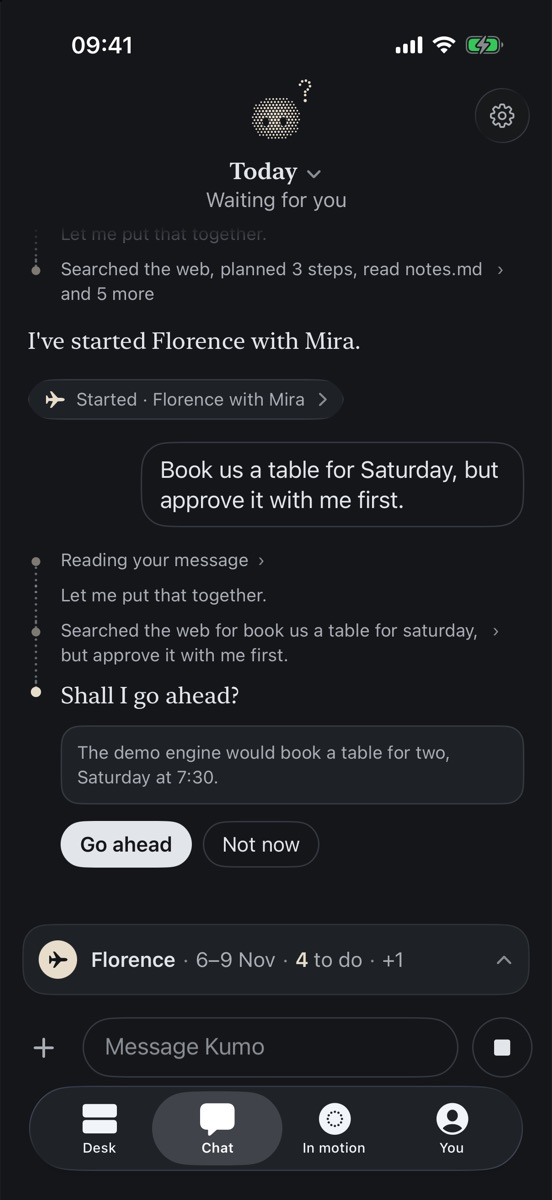
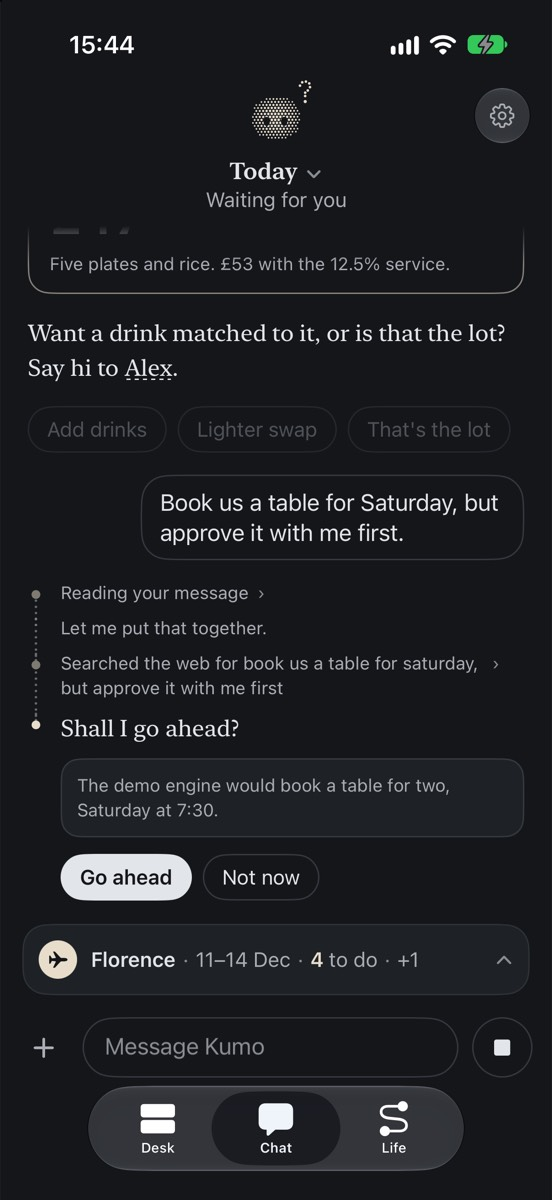
docs: README for 0.21 with fresh screenshots (#212)
## Why

The README still showed In motion and the Library, which the app no
longer has, listed an
on-device cache as not built, and left out most of what the server
learnt in 0.20 and 0.21.

## What changes

- New screenshots of the built 0.21 app on fictional data: the Desk with
the dream's moon, the chat
with side threads, last night's dream page and Life's Going on at the
top; What I know about you
beside Memory; Kumo dreaming beside a new section on the dream. The old
`in-motion`, `library`
  and `your-day` images are gone.
- The intro and "What works today": Ito as a companion for your whole
life, with bullets for
sharing, places, people linked to Contacts, Life, Understanding you,
Today so far, the dream, the
  browser and Full access. In motion is folded into Life's Going on.
- Two short engineering sections: the dream and Today so far, and how
places, trips and the heat
are worked out on the box (linking to `docs/running.md#places` for the
details).
- The five-minute demo: the trip shows in Going on, *menu* and *guide*
are listed, and it says the
  demo engine doesn't dream and has no places or people.
- The table of folders gains `src/dream`, `src/day`, `src/location`,
`src/life`, `src/motion`,
`src/hands` and `src/access`; the diagram's background box names places
and the dream; the
  privacy notes say where you've been stays on your machine.

## Calls I made

- No map screenshots: MapKit draws no tiles in this Simulator, so Days,
Places and a place's page
[…]

diff --git a/README.md b/README.md
@@ -1,34 +1,37 @@
 # <img src="https://raw.githubusercontent.com/akai-ito/.github/main/profile/mark.svg" width="34" alt=""> Ito
 
-**A personal agent you run on your own machine, with a native iPhone app.**
+**A companion for your whole life that you run on your own machine, with a native iPhone app.**
 
 [![CI](https://github.com/akai-ito/ito-core/actions/workflows/ci.yml/badge.svg)](https://github.com/akai-ito/ito-core/actions/workflows/ci.yml)
 
-Life admin is scattered across mail, calendars and your own head, and it needs following up
+Life is scattered across mail, calendars, places and your own head, and it needs following up
 long after any one conversation ends. Ito is an agent that lives with it. Kumo, the agent, reads
 your mail as it arrives, keeps your calendar and plans, remembers what you tell it in a git
-repository you own, and comes back to things on its own when they need you. You talk to it in one
-continuous conversation in the iPhone app, which also has a Desk for what's waiting on you. Kumo
-drafts, files and schedules, and records each action with an undo. It never sends mail, and the
-bigger steps wait for your go-ahead.
+repository you own, and comes back to things on its own when they need you. Each night it dreams
+over the day: it tidies its memory, plans tomorrow and writes your journal. If you let it, it
+learns your places from your phone's trail and links the people in your life to your contacts.
+You talk to it in one continuous conversation in the iPhone app, which also has a Desk for what's
+waiting on you and Life, for your days, places, people and what's going on. Kumo drafts, files and
+schedules, and records each action with an undo. It never sends mail, and the bigger steps wait
+for your go-ahead.
 
 This repository, **ito-core**, is the server: the agent loop, a durable event log, the client API,
-memory, mail and calendar, capabilities and the voice sidecar. The iPhone app is
-[ari-ios](https://github.com/akai-ito/ari-ios); Ari is its name in the code.
+memory and the dream, mail and calendar, places and people, capabilities and the voice sidecar. The
+iPhone app is [ari-ios](https://github.com/akai-ito/ari-ios); Ari is its name in the code.
 
 <p align="center">
-  <img width="200" alt="The Desk: Kumo, one thing waiting, and today as a dotted line"
+  <img width="200" alt="The Desk at 07:40: Kumo, the moon from last night's dream, and 2 for you"
     src="docs/images/desk.jpg">
-  <img width="200" alt="The chat: Kumo's trail, then a reply that opens a trip"
+  <img width="200" alt="The chat: a reply with Kumo's trail, two side threads and a table"
     src="docs/images/chat.jpg">
-  <img width="200" alt="A trip in motion: its to-dos and its days"
-    src="docs/images/in-motion.jpg">
-  <img width="200" alt="The Library: shelves of memory pages"
-    src="docs/images/library.jpg">
+  <img width="200" alt="The moon's page: last night's dream, replayed as a weave, line by line"
+    src="docs/images/last-night.jpg">
+  <img width="200" alt="Life, Going on: matters, projects and goals as threads beside time"
+    src="docs/images/going-on.jpg">
 </p>
-<p align="center"><sub>The Desk, a reply with Kumo's trail, a trip in motion, and the memory
-Library. Every name and detail is fictional: the server's demo engine and a few made-up memory
-pages.</sub></p>
+<p align="center"><sub>The Desk, a reply with Kumo's trail and side threads, the record of last
+night's dream, and Life's Going on. Every name and detail is fictional: the app's own samples and
+the server's demo engine.</sub></p>
 
 > [!NOTE]
 > Ito is a personal project, in use by its author on his own home server. It's single-user by
@@ -43,36 +46,58 @@ pages.</sub></p>
   that runs beside the main chat. Where an answer has shape, it shows: tables with verdicts, picks
   with pictures, cards to act on, and pages Kumo made and keeps current. Photos, files and long
   recordings go in with a message; recordings are transcribed on the server.
+- **Sharing.** What you send from the phone's share sheet (a link, text, photos or files, with your
+  thought) is on disk at once. The server reads the link's page, and Kumo puts the share in the
+  open thread it belongs to, or starts one, and answers there.
 - **Mail.** iCloud, Outlook or Gmail over IMAP. Kumo reads each new mail as it arrives, puts
   bookings on your calendar, and drafts replies in your voice into your Drafts folder. It never
   sends mail.
 - **Calendar and contacts.** iCloud over CalDAV and CardDAV: events, holds and invite answers,
   Kumo's own calendar for its plan of your day and its guesses, and contact details kept current.
-- **People.** Kumo's People pages linked to their Contacts cards (on sure evidence, or after asking
-  you), listed by circle in your order with when you last saw them and what's coming up, all from
-  evidence, never from tracking anyone.
-- **Life.** One search over everything, with Kumo's answer first; your days by week, month and
-  year with Kumo's line on each and the chapters of your life as spans; and Going on, one list of
-  what's in motion, your projects and your goals, with what Kumo is working on right now.
+- **Places.** Off until you turn them on in the app. Then the phone's trail (iOS's visits, its
+  significant changes, and GPS only while you're moving) comes to the box in batches, and your
+  photos' dates and places can seed the past. The box gathers visits into places ranked by true
+  hours, finds home and your trips, and keeps each day's hours as heat on a map grid, so a week or
+  a year is a cheap sum. Arriving and leaving wake Kumo as a new mail does; mostly it keeps a note
+  for the dream, and a place it can't name becomes a question. It all stays on your machine, and
+  you can forget a day, a range or everything.
+- **People.** Kumo's People pages linked to their iCloud Contacts cards (on sure evidence, or after
+  asking "Is this Omar from your contacts?"), listed by circle in your order with when you last
+  saw them and what's coming up, all from evidence, never from tracking anyone.
+- **Life.** One search over everything, with Kumo's answer first; your days by day, week, month
+  and year, each day a thread of places, with Kumo's line on each range and the chapters of your
+  life as spans; your places and trips; Going on, where what's in motion, your projects and your
+  goals run as threads beside time, with what Kumo is working on right now; and the pages Kumo
+  made. Things in motion (roles you're pursuing, training blocks, trips) are structured documents
+  that Kumo changes a part at a time as you talk, and ends with an honest outcome.
 - **Memory.** The Thread, a git repository of Markdown pages and a journal that you can read
   without Ito, with search over it and past conversations, and an optional backup to a private
-  GitHub repository. Kumo keeps the chapters of your life there, and tells you what it learnt.
-- **Follow-through.** Kumo sets itself wake-ups, wakes on new mail and calendar changes, and
-  messages you when something is worth saying. Every action it takes is recorded, with an undo
-  where there can be one.
+  GitHub repository. Kumo keeps the chapters of your life there, and shows what it knows about you
+  in short: your portrait, how to help you, your tastes and what it learnt lately.
+- **Understanding you.** Kumo's learning tracks, with a few quiet questions on them: what it
+  already understands, the missing piece and why it would help, answered with a tap, your words or
+  your voice. Nothing about them is due or loud, and what you correct becomes evidence there too.
+- **Follow-through.** Kumo sets itself wake-ups, wakes on new mail, calendar changes and your
+  comings and goings, and messages you when something is worth saying. Every turn and wake-up
+  starts from Today so far, one short account of the day across every conversation, so nothing is
+  asked twice. Every action it takes is recorded, with an undo where there can be one.
 - **The dream.** Once a day, at a time you set, Kumo looks back over the whole day and puts it in
   order: it tends memory, plans tomorrow, and writes your journal as your own diary, then leaves a
-  record of what it did that you can take back line by line.
-- **In motion.** Roles you're pursuing, training blocks, trips, projects and other things you're
-  doing, kept as structured documents that Kumo changes a part at a time as you talk, and ended
-  with an honest outcome.
+  record of what it planned, tidied, noticed and saved for you that you can take back line by line.
+  Dream now runs an extra one.
+- **Kumo's browser.** A Chromium on the server, headful on a virtual display, that Kumo browses
+  for you. A login, a code, a CAPTCHA or a payment streams to the phone for you to take over, and
+  money and logins always take your own tap.
+- **Full access.** Kumo's commands run in a sandbox. Turned on in the app, after Face ID, full
+  access lifts it from Kumo's next turn, in the chat, in the background and in the dream, until you
+  turn it off.
 - **Voice.** Calls with Kumo through CallKit, with speech recognition and synthesis on the server's
   own GPU.
 - **Notifications.** Every message notifies, encrypted so that Apple's push service only carries
   ciphertext.
 
-Not built yet: model-behaviour evals and tracing, local models, an on-device cache so the app
-opens instantly, a light mode and iPad layout, TestFlight builds, and clients beyond the iPhone.
+Not built yet: model-behaviour evals and tracing, local models, a light mode and iPad layout,
+TestFlight builds, and clients beyond the iPhone.
 
 ## Try it in five minutes
 
@@ -103,11 +128,13 @@ curl -H "Authorization: Bearer $TOKEN" -H "content-type: application/json" \
   http://127.0.0.1:8787/v0/messages
 ```
 
-A message with *trip* in it starts a sample trip in motion, *busy* walks a trail of steps, *mail*
-puts a sample draft on the Desk, *plan* lays out a sample day, *approve* asks for an approval, and
-*fail* and *long* try a failure and Stop. To see it in the app, build
+A message with *trip* in it starts a sample trip, which shows in the app's Going on, *busy* walks
+a trail of steps, *mail* puts a sample draft on the Desk, *plan* lays out a sample day, *menu*
+answers with a table and picks, *guide* makes a page, *approve* asks for an approval, and *fail*
+and *long* try a failure and Stop. To see it in the app, build
 [ari-ios](https://github.com/akai-ito/ari-ios#build-and-run) for the Simulator and connect it to
-`http://127.0.0.1:8787` with the same token.
+`http://127.0.0.1:8787` with the same token. The demo engine doesn't dream, and it has no places or
+people; the app's own samples show those without a server.
 
 ## How it fits together
 
@@ -120,7 +147,7 @@ flowchart TB
     api["Client API<br/>commands · event stream · calls"]
     turns["Turns<br/>one conversation"]
     store[("SQLite<br/>event log · projections · wake-ups")]
-    kumo["Kumo in the background<br/>wake-ups · mail · calendar"]
+    kumo["Kumo in the background<br/>wake-ups · mail · calendar · places · the dream"]
     engine["Engine seam"]
     codex["codex app-server<br/>child process, sandboxed"]
     tools["Ito's tools<br/>MCP server · ito commands"]
@@ -163,11 +190,15 @@ each capability and the voice as child processes, each speaking JSON-RPC over it
 | [src/engine](src/engine) | The engine seam, the Codex adapter and the scripted engine for tests and the demo |
 | [src/tools](src/tools), [src/capabilities](src/capabilities) | The MCP server, the `ito` commands and skills, and the capability host |
 | [src/memory](src/memory) | The Thread, recall and backup |
+| [src/dream](src/dream), [src/day](src/day) | The night's dream and its record, Today so far, and the picture of your day |
 | [src/recordings](src/recordings), [src/files](src/files), [src/made](src/made) | Recordings transcribed on the box, files Kumo shows at one version, and pages Kumo makes |
 | [src/mail](src/mail), [src/calendar](src/calendar), [src/contacts](src/contacts) | IMAP, CalDAV and CardDAV, drafts and Kumo's calendar |
+| [src/location](src/location) | The phone's trail: visits gathered into places, home, trips, the heat by map cell, comings and goings, and Kumo's read-only tools over them |
 | [src/people](src/people) | People pages linked to Contacts cards, circles in your order, and the evidence behind last seen and time together |
+| [src/life](src/life), [src/motion](src/motion) | Life's search, days, Going on and what Kumo knows about you, and the things in motion |
 | [src/wakeups](src/wakeups), [src/desk](src/desk), [src/work](src/work) | Wake-ups, the Desk, and Kumo's work log, learning tracks and Understanding you |
-| [capabilities](capabilities) | The capability SDK, Reports and a sample |
+| [src/hands](src/hands), [src/access](src/access) | Kumo's browser beyond its tools (the live view on the phone, takeover, commit cards), and Full access |
+| [capabilities](capabilities) | The capability SDK, the Browser, Reports and a sample |
 | [agent](agent) | Kumo's instructions and the skill files it reads on demand |
 | [voice](voice) | The voice sidecar: turn detection, speech recognition and synthesis |
 
@@ -253,6 +284,9 @@ that crashes with backoff, giving up after five crashes in ten minutes
 
 ### Memory you can read without Ito
 
+<img align="right" width="200" alt="What I know about you: portrait, how to help you, tastes"
+  src="docs/images/what-i-know.jpg">
+
 The Thread is a git repository of Markdown pages with YAML front matter: people, groups, goals,
 projects, places, topics and a journal, plus a portrait of you, what's going on now and how you like
 to be helped. Each write is a commit, made one at a time through a queue, so history and diffs come
@@ -261,12 +295,12 @@ free and the app shows what changed ([memory.ts](src/memory/memory.ts),
 the CPU, merged by reciprocal rank fusion ([recall.ts](src/memory/recall.ts)). Memory stays out of
 the event log: a step names the pages Kumo used, never what they say. The backup pushes to a private
 GitHub repository through a GitHub App installed on that one repository, and it only ever
-fast-forwards, refusing rather than merging when both sides changed.
+fast-forwards, refusing rather than merging when both sides changed. What Kumo knows about you
+comes back in short, for the app: the portrait, how to help you, your tastes and what it learnt
+lately, written on the quick model and kept until the pages they come from change
+([about-you.ts](src/life/about-you.ts)).
 
 ### Follow-through from four building blocks
-
-<img align="right" width="200" alt="Your day: events, Kumo's plan and its marked guesses"
-  src="docs/images/your-day.jpg">
 
 There are no cron jobs, fixed check-in times or rules about when to speak. Kumo decides, from four
 building blocks the server holds it to ([guarantees](protocol/guarantees.md#how-kumo-decides-to-speak)):
@@ -276,13 +310,48 @@ building blocks the server holds it to ([guarantees](protocol/guarantees.md#how-
    repeats in your time zone, and where it came from. When one comes due, Kumo looks first, then
    messages you, moves it or drops it ([wakeups.ts](src/wakeups/wakeups.ts)).
 3. **It wakes on what happens:** a new mail over IMAP IDLE, a change on your calendars (polled over
-   CalDAV), or a move to another time zone.
+   CalDAV), arriving at a place or leaving it, or a move to another time zone.
 4. **It acts and records**, as above. The Desk's cards are the same in the chat: once you settle
    one there, Kumo answers, changes or clears it, and a card that only mattered until a moment
    leaves by itself then.
 
 When Kumo's model can't act, nothing templated goes out in its place: what was due waits, the
 problem shows in the app, and Kumo catches up once the model answers.
+
+### A dream each night, and the day joined up
+
+<img align="right" width="200" alt="Kumo dreaming at 04:06, a name drifting up as dots"
+  src="docs/images/dreaming.jpg">
+
+Each conversation sees only its own slice, so on its own nothing joins the day up: a check-in
+comes twice, or a question already answered in another thread is asked again. Two things join it:
+
+- **Today so far.** Every turn and every piece of background work gets one short account of the
+  day across the main chat and every side thread, with what Kumo did and what's next. It's written
+  from the store as it is, newest first and bounded, so it never goes stale and costs no model call
+  ([today.ts](src/day/today.ts)).
+- **The dream.** Once a day, at a fixed local time, Kumo looks back over everything since its last
+  dream, each source digested to a few lines ([digest.ts](src/dream/digest.ts)): the conversations,
+  the day's notes, mail you read or sent, your calendars and what it did in the background. It
+  tends memory to a style guide, reconciles tomorrow (its blocks, its guesses and its wake-ups),
+  writes each day's journal entry in your voice, and folds lasting lessons into how to help you
+  ([dream.ts](src/dream/dream.ts)). It leaves a record of what it planned, tidied, noticed and
+  saved for you, each line pointing at what it changed, with an undo in Done. One dream runs at a
+  time, a dream the server was off for runs once it's back, and Dream now never stands in for the
+  night's.
+
+### Places, worked out on the box
+
+The phone sends its trail in batches; the box does the rest
+([location.ts](src/location/location.ts)). Visits within about 75 m gather into places, ranked by
+true hours. Home is where you slept most at 03:00 over the last two months, a day mostly 50 km or
+more from home is a day away, and two or more in a row make a trip. Each day's hours are kept by
+geohash cell of about 150 m, home included; any coarser cell is a prefix of it, so a week, a month
+or a year is a cheap sum, and the map glows on a curve that saturates, so home and the office are
+simply full. Arriving and leaving wake Kumo as a mail does, after the moment settles and at most
+every 15 minutes, and short stops never do. Kumo reads all this only through read-only tools and
+the dream, and you can forget a day, a range or everything. The details are in
+[docs/running.md](docs/running.md#places).
 
 ### Reliability tests
 
@@ -305,9 +374,10 @@ app's UI tests run locally against the demo engine, not in CI.
 
 ## Privacy and security
 
-- **Where your data goes.** Everything is stored on your machine, in `~/.ito`. What Kumo reads to
-  do its work (your messages, the memory pages it uses, the mail it handles) goes to OpenAI's
-  models through your Codex sign-in. Push notifications pass through Apple as ciphertext, sealed
+- **Where your data goes.** Everything is stored on your machine, in `~/.ito`, including where
+  you've been if you turn places on. What Kumo reads to do its work (your messages, the memory
+  pages it uses, the mail it handles, a day or a place it looks at) goes to OpenAI's models through
+  your Codex sign-in. Push notifications pass through Apple as ciphertext, sealed
   with AES-256-GCM under a key each phone makes. The server also reaches the weather service with
   a location rounded to about 10 km, if you allow it, GitHub if you turn on backup or Reports,
   Hugging Face once, for model downloads, and the web when Kumo searches or reads a page.
